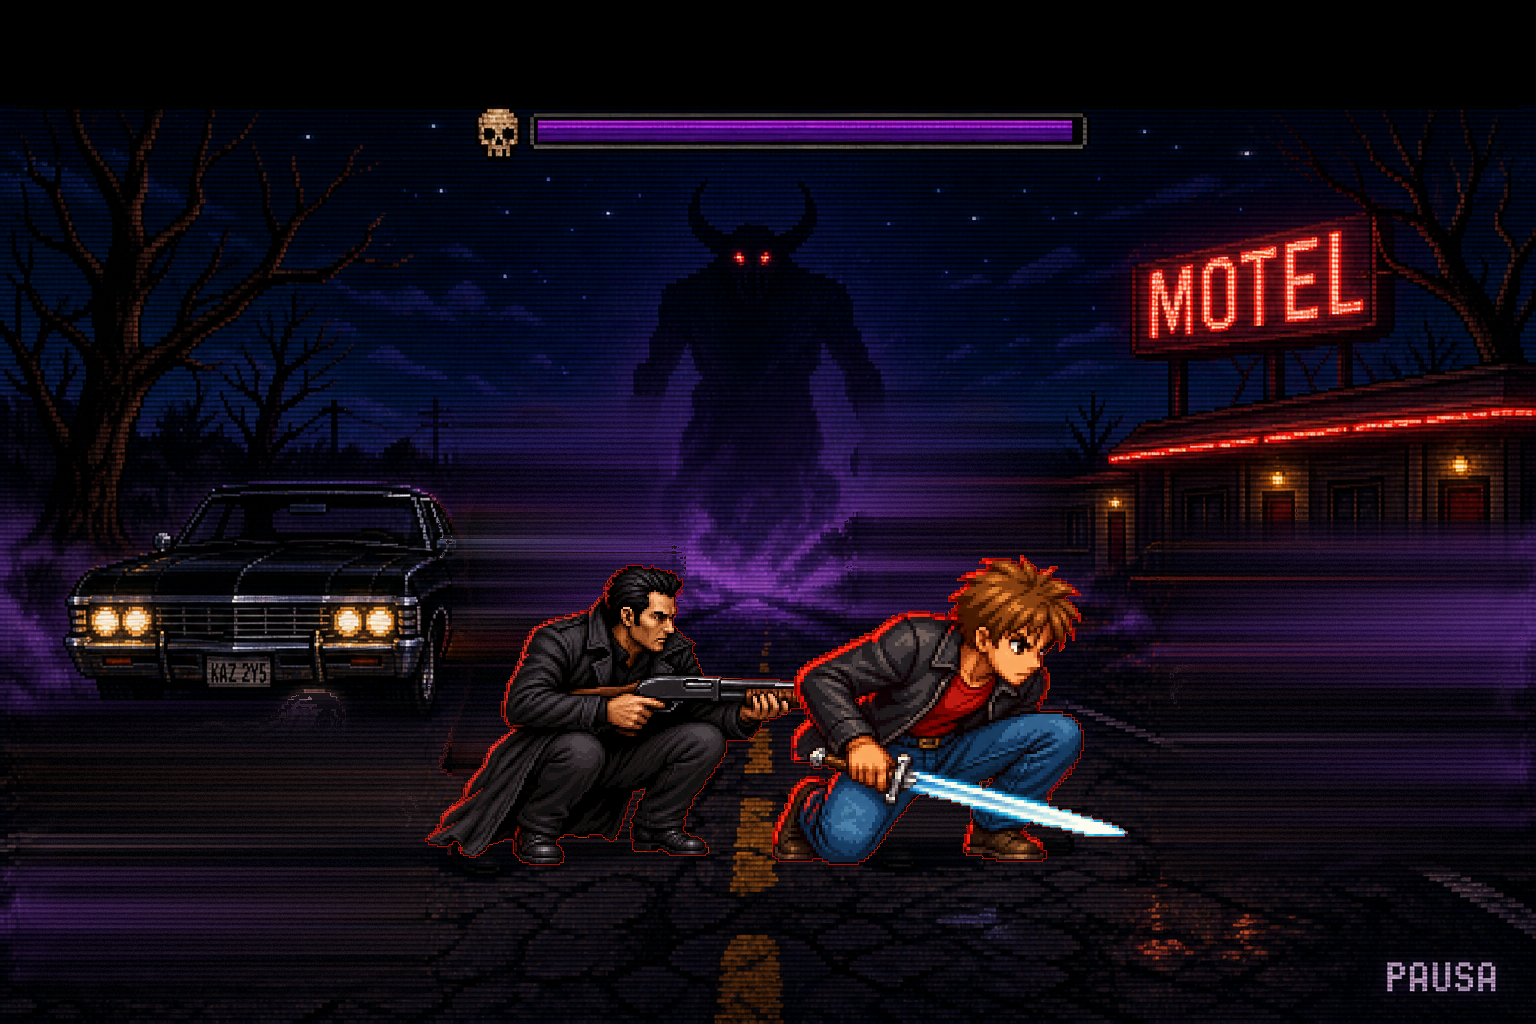
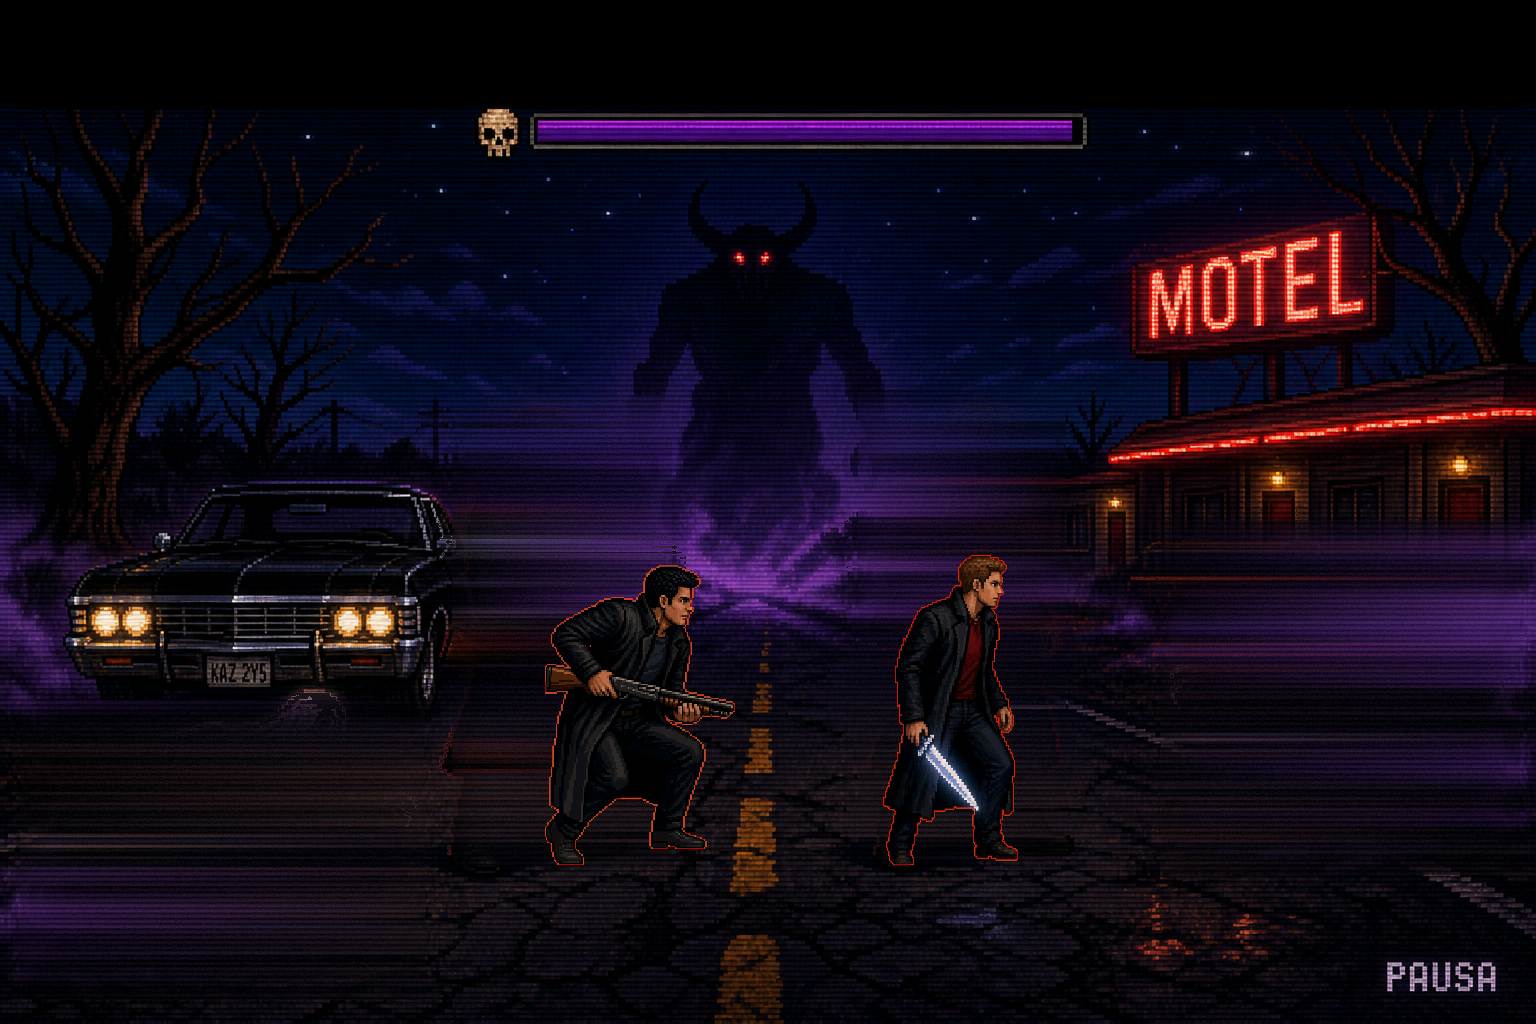
Sprites regenerados ANCORADOS nos personagens canon (mesmo rosto/roupa/estilo, so muda a pose); A21 compara fases adjacentes do ciclo

Changed region(s): [[0.2812, 0.5312, 0.7188, 0.8438]]

diff --git a/jogo/council.py b/jogo/council.py
@@ -309,9 +309,17 @@ def iou(a, b):
             inter += va & vb; uni += va | vb
     return inter / max(1, uni)
 def get(n): return bbox(load(os.path.join(S2, n + ".png")))
-pairs = [("d-runA", "d-walkA", 0.80, "corrida do Dante identica a andada"),
-         ("d-runA", "d-runC", 0.85, "fases A e C da corrida do Dante identicas"),
-         ("l-runA", "l-runC", 0.85, "fases A e C da corrida do Luca identicas"),
+# fases adjacentes do ciclo precisam diferir (estendida vs passagem);
+# A vs C sao fases espelhadas do mesmo gesto => parecidas por natureza, nao contar.
+pairs = [("d-runA", "d-runB", 0.80, "corrida do Dante nao anima (A==B)"),
+         ("d-runB", "d-runC", 0.80, "corrida do Dante nao anima (B==C)"),
+         ("d-runC", "d-runD", 0.80, "corrida do Dante nao anima (C==D)"),
+         ("d-runD", "d-runA", 0.80, "corrida do Dante nao anima (D==A)"),
+         ("l-runA", "l-runB", 0.80, "corrida do Luca nao anima (A==B)"),
+         ("l-runB", "l-runC", 0.80, "corrida do Luca nao anima (B==C)"),
+         ("l-runC", "l-runD", 0.80, "corrida do Luca nao anima (C==D)"),
+         ("l-runD", "l-runA", 0.80, "corrida do Luca nao anima (D==A)"),
+         ("d-runA", "d-walkA", 0.80, "corrida do Dante identica a andada"),
          ("l-runC", "l-walkA", 0.80, "corrida do Luca identica a andada")]
 pose_bad = 0
 for a_, b_, thr, msg in pairs:
